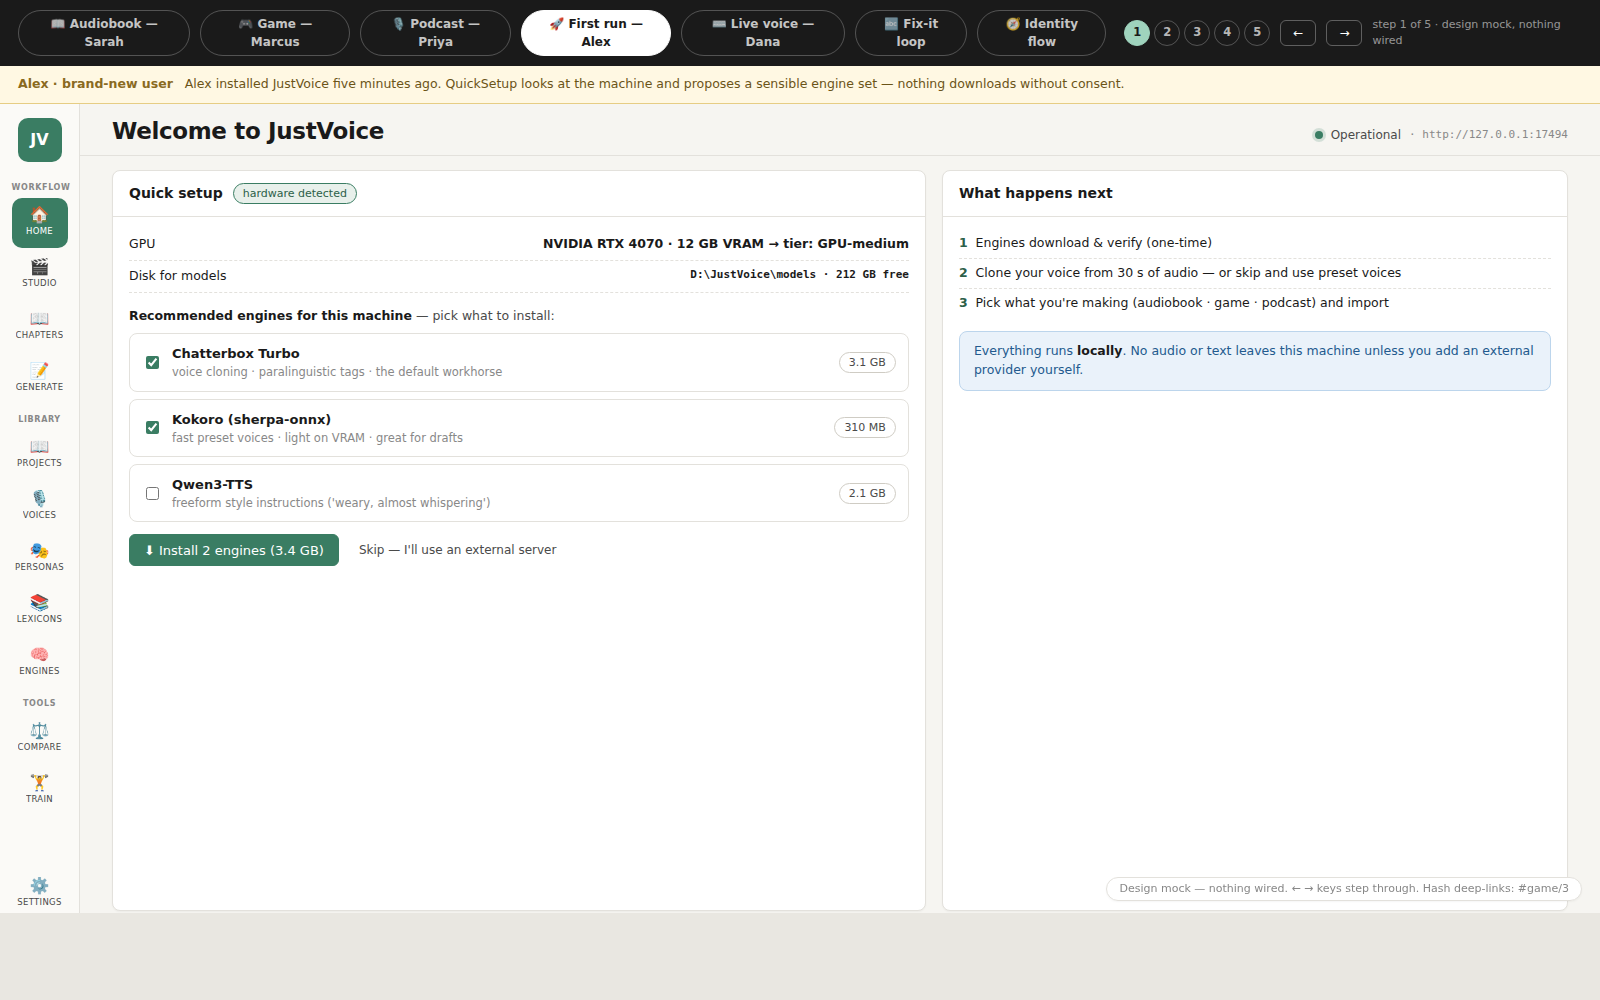
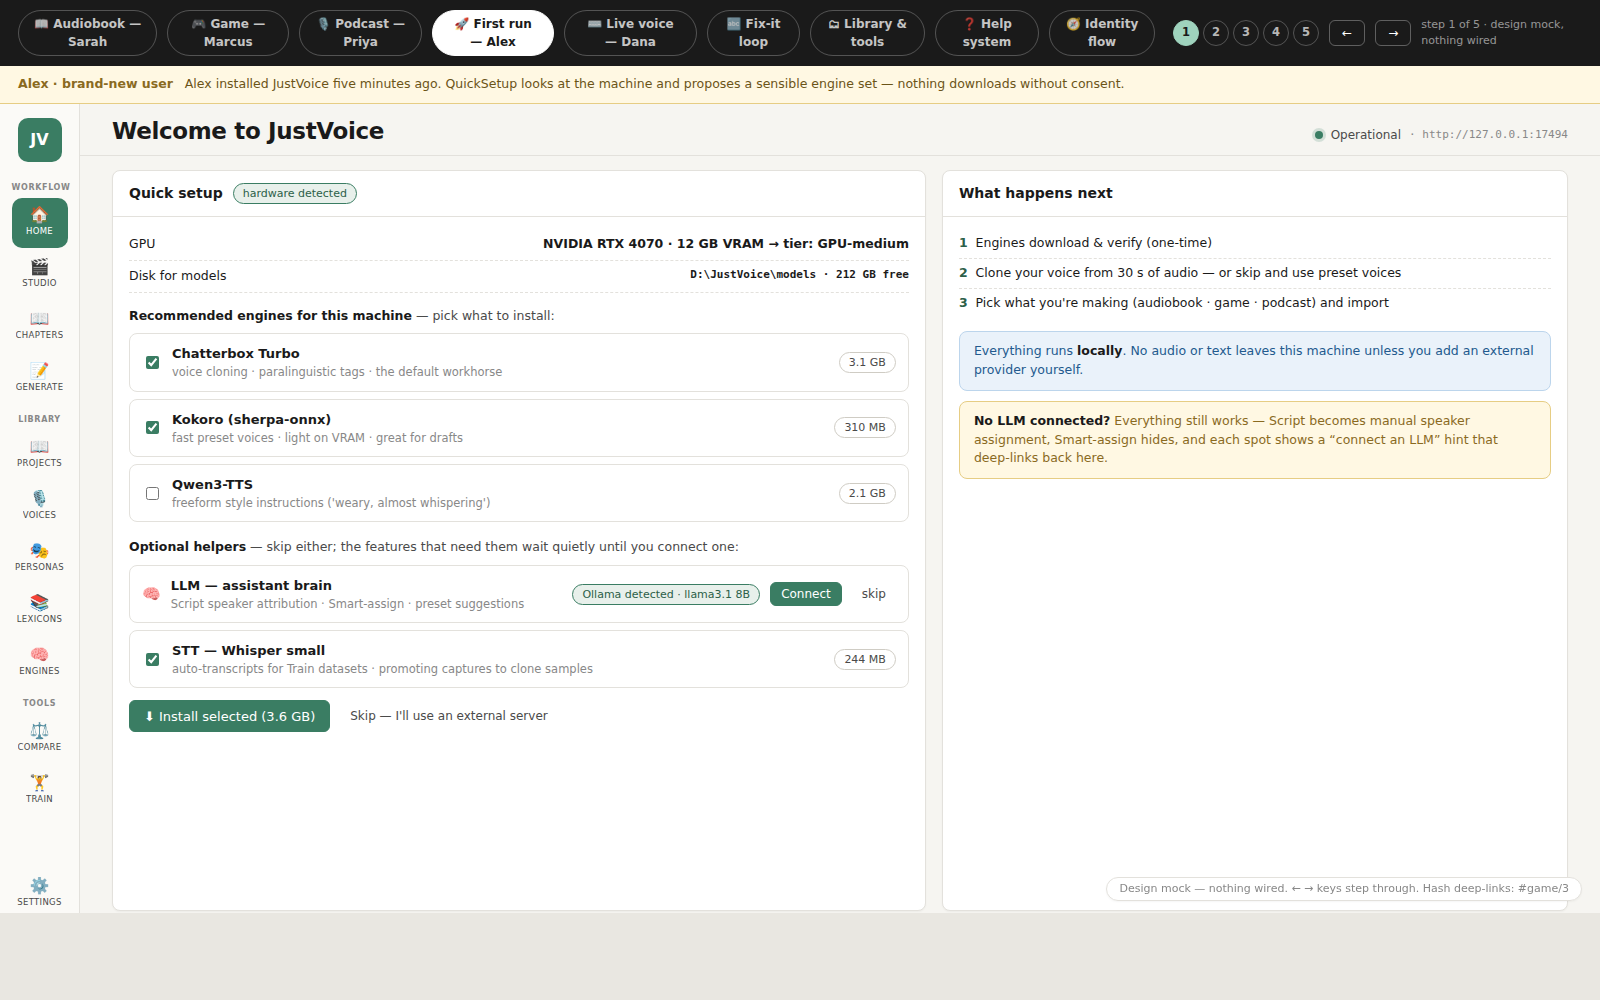
feat(design): QuickSetup gains optional LLM connect + STT install rows; CONCEPTS §10
https://claude.ai/code/session_01RnHLzYNeJn2GgAMKW1BPmR

diff --git a/preview/journeys-preview.html b/preview/journeys-preview.html
@@ -799,7 +799,18 @@ const stepsFirstrun = [
             <input type="checkbox" ${e[3]?'checked':''} style="accent-color:var(--accent)"/>
             <div style="min-width:0;flex:1"><strong style="font-size:13px">${e[0]}</strong><div class="muted" style="font-size:11.5px">${e[1]}</div></div>
             <span class="pill">${e[2]}</span></div>`).join("")}
-        <div class="row" style="margin-top:12px"><button class="btn">⬇ Install 2 engines (3.4 GB)</button><button class="btn ghost sm">Skip — I'll use an external server</button></div>
+        <p style="font-size:12.5px;margin:16px 0 8px"><strong>Optional helpers</strong> — skip either; the features that need them wait quietly until you connect one:</p>
+        <div class="row" style="border:1px solid var(--line);border-radius:8px;padding:9px 12px;margin-bottom:7px;flex-wrap:nowrap">
+          <span style="font-size:15px;flex:none">🧠</span>
+          <div style="min-width:0;flex:1"><strong style="font-size:13px">LLM — assistant brain</strong><div class="muted" style="font-size:11.5px">Script speaker attribution · Smart-assign · preset suggestions</div></div>
+          <span class="pill green">Ollama detected · llama3.1 8B</span><button class="btn sm" style="height:24px">Connect</button><button class="btn ghost sm">skip</button>
+        </div>
+        <div class="row" style="border:1px solid var(--line);border-radius:8px;padding:9px 12px;margin-bottom:7px;flex-wrap:nowrap">
+          <input type="checkbox" checked style="accent-color:var(--accent)"/>
+          <div style="min-width:0;flex:1"><strong style="font-size:13px">STT — Whisper small</strong><div class="muted" style="font-size:11.5px">auto-transcripts for Train datasets · promoting captures to clone samples</div></div>
+          <span class="pill">244 MB</span>
+        </div>
+        <div class="row" style="margin-top:12px"><button class="btn">⬇ Install selected (3.6 GB)</button><button class="btn ghost sm">Skip — I'll use an external server</button></div>
       </div></div>
       <div class="card"><div class="card-h"><strong>What happens next</strong></div><div class="card-b">
         <ul class="ckl">
@@ -808,6 +819,7 @@ const stepsFirstrun = [
           <li><span class="ok">3</span> Pick what you're making (audiobook · game · podcast) and import</li>
         </ul>
         <div class="banner info" style="margin-top:14px">Everything runs <strong>locally</strong>. No audio or text leaves this machine unless you add an external provider yourself.</div>
+        <div class="banner warn" style="margin-top:10px"><strong>No LLM connected?</strong> Everything still works — Script becomes manual speaker assignment, Smart-assign hides, and each spot shows a “connect an LLM” hint that deep-links back here.</div>
       </div></div>
     </div>`) },
 

diff --git a/docs/CONCEPTS.md b/docs/CONCEPTS.md
@@ -216,3 +216,29 @@ Implementation shape (single-sourced, headless-parity):
 Rejected alternatives: external-docs-only (context switch, useless
 offline); coach-mark overlays everywhere (annoying after first run —
 reduced to the one-time hint strip).
+
+## 10. LLM & STT in first-run (optional helpers, never blockers)
+
+Question (2026-06-11): should the user select an LLM and STT at startup?
+
+Yes — both ride in QuickSetup as **optional, skippable rows** under the
+engine list. Principle: the TTS core never depends on either; skipping
+costs specific features, and the UI says exactly which.
+
+- **LLM — connect, don't bundle.** QuickSetup probes for running local
+  servers (Ollama / LM Studio on their default ports) and offers one-click
+  connect; otherwise add any OpenAI-compatible endpoint + key, or skip.
+  This sets the default provider for the per-feature bindings that already
+  exist in settings (`LLMBinding` in `models.py` — speaker_attribution,
+  smart_assign, render_preset_suggest, compose, persona_rewrite; QuickSetup
+  pre-fills per hardware tier).
+  **Graceful degradation when skipped:** Script becomes manual speaker
+  assignment, Smart-assign hides, preset-suggest hides — each spot shows a
+  "connect an LLM" hint deep-linking to setup. Audiobook EPUB flow is the
+  big loser without one; games/podcasts barely notice (their sources name
+  speakers).
+- **STT — bundle small.** Whisper-small (~244 MB) as a checkbox, on by
+  default. Consumers: Train dataset auto-transcripts, promoting captures
+  to clone samples. Skipped → Train asks for manual transcripts.
+- Both re-offerable later: Settings → AI features, plus the deep-links
+  from degraded spots. First-run stays one screen — no wizard sprawl.
